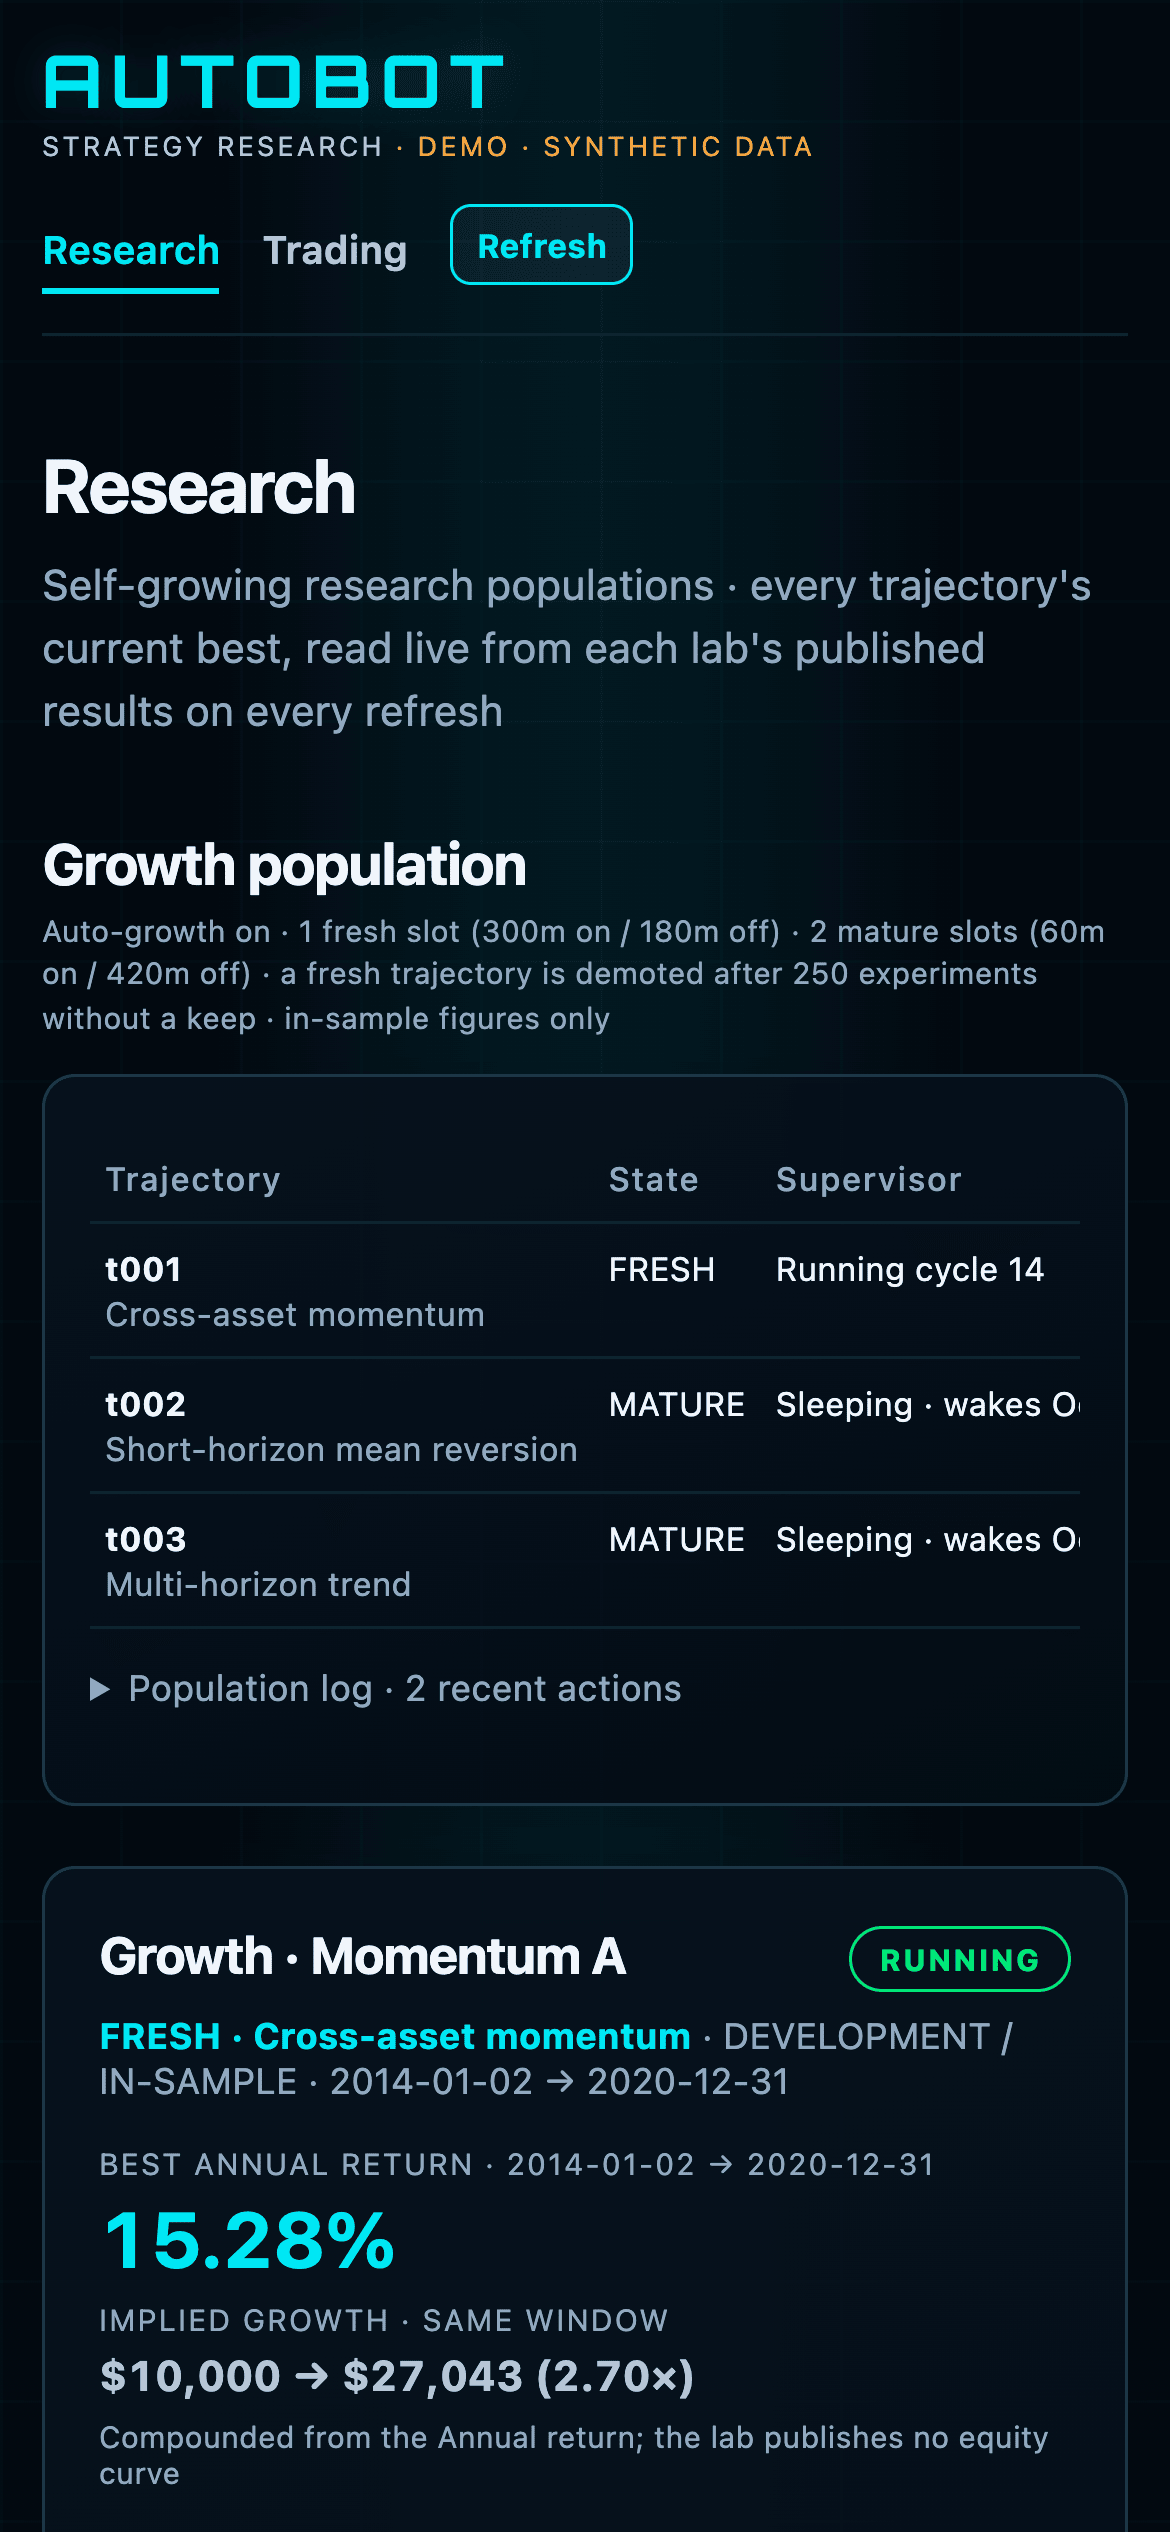
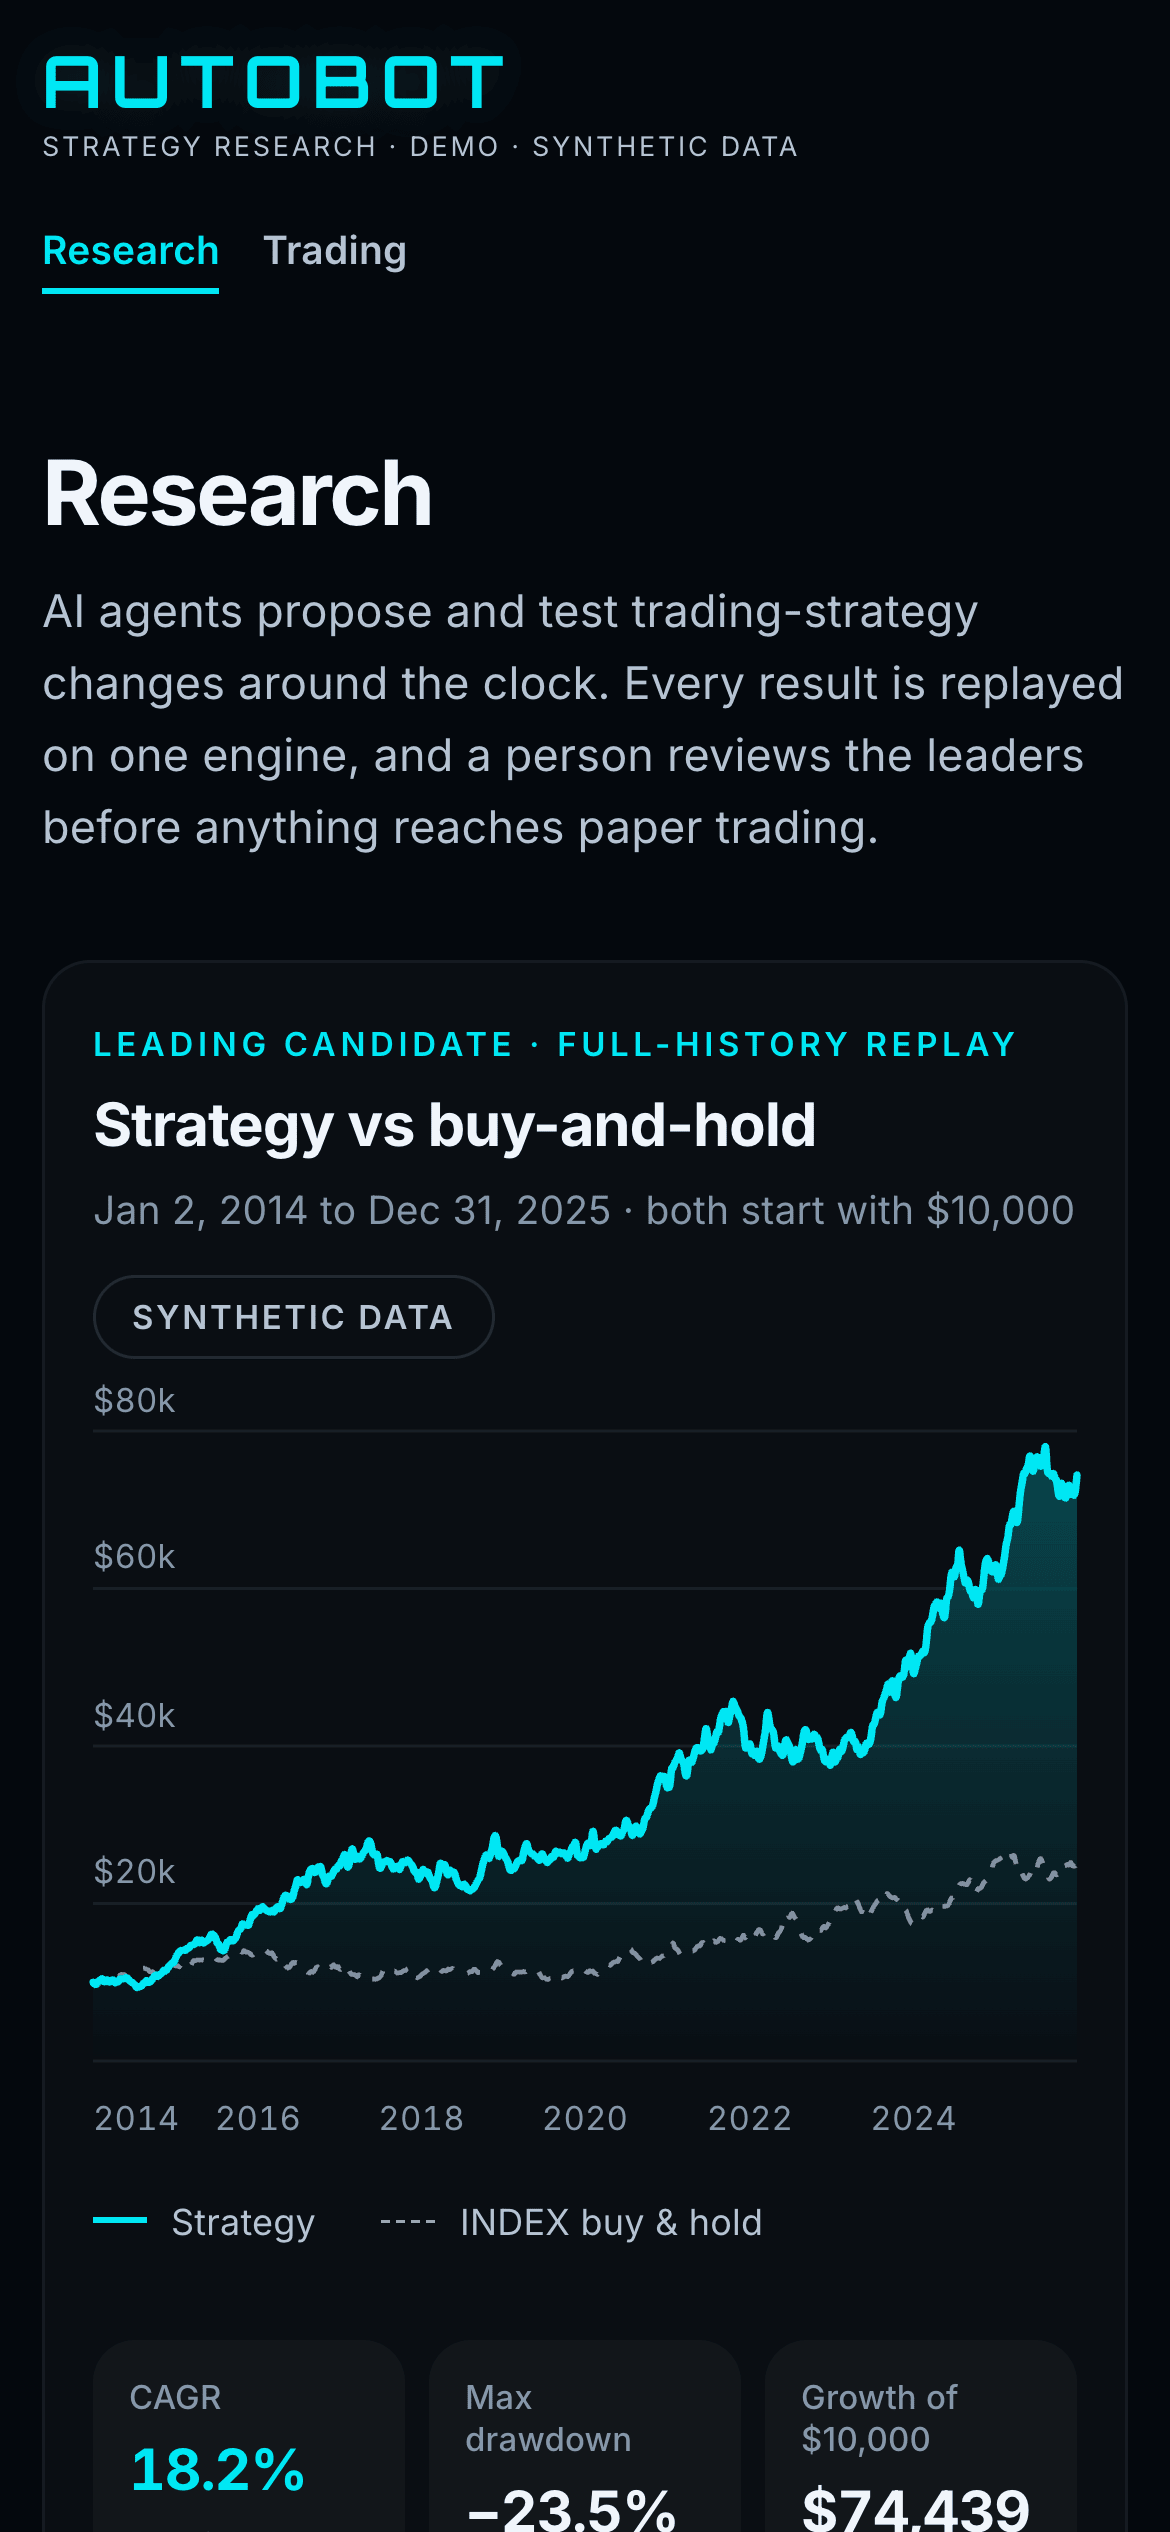
Lead Research with the equity curve and the research loop
A hero equity curve compares the leading candidate with buy-and-hold from
the same $10,000, with CAGR, max drawdown and growth tiles beside it. A
research-loop chart plots every experiment a lab has run and its best
result so far. Lab cards show a headline and sparkline with the rest behind
View details, populations collapse to three columns, and Recent Bests and
the archived lab fold away. The generator adds each lab's experiment
history, consistent with its counts and recent bests.

diff --git a/README.md b/README.md
@@ -6,7 +6,7 @@ Demo version of my Autobot system, running on sample data. The live system runs 
 
 A research system where AI agents build and test trading strategies around the clock, and a person decides what moves forward.
 
-![Autobot Research page: two research populations, each lab's state and current best](docs/screenshots/research-overview.png)
+![Autobot Research page: the leading candidate's full-history equity curve against buy-and-hold, with CAGR, max drawdown and growth of $10,000](docs/screenshots/research-overview.png)
 
 ## Scale and timeline
 
@@ -14,7 +14,7 @@ A research system where AI agents build and test trading strategies around the c
 |---|---|
 | Time in development | 21 months (January 2025 to October 2026) |
 | Commits across the private repositories | 479 |
-| Commits in this demo's history | 73 |
+| Commits in this demo's history | 74 |
 | Hand-built strategy versions before automation | 27 |
 | Automated research labs | 36 |
 | Experiments recorded by those labs | 23,000+ |
@@ -67,13 +67,13 @@ More detail in [docs/HOW_IT_WORKS.md](docs/HOW_IT_WORKS.md) and the principles b
 
 ## Screenshots
 
-**Lab cards.** Each trajectory's state, supervisor, best result, trade statistics and last research cycle.
+**The research loop.** Every experiment one lab has run. Each dot is a change an agent proposed and the replay engine scored; the few that beat the current best are kept and raise the bar.
 
-![Active population table, population log and two lab cards](docs/screenshots/population-and-labs.png)
+![Research loop chart: discarded experiments as grey dots, kept experiments as cyan dots on a rising best-so-far line](docs/screenshots/research-loop.png)
 
-**Replay.** The leading candidate over the full history from a fresh $10,000 ledger, with an optional buy-and-hold reference and point-by-point inspection.
+**Strategy labs.** Each lab's state and best result at a glance, with a sparkline of its progress. Trade statistics, supervisor state and experiment history sit behind View details.
 
-![Full-history replay chart with a buy-and-hold reference and hover inspection](docs/screenshots/replay-chart.png)
+![Growth population table and three lab cards with sparklines](docs/screenshots/strategy-labs.png)
 
 **Phone layout.**
 
